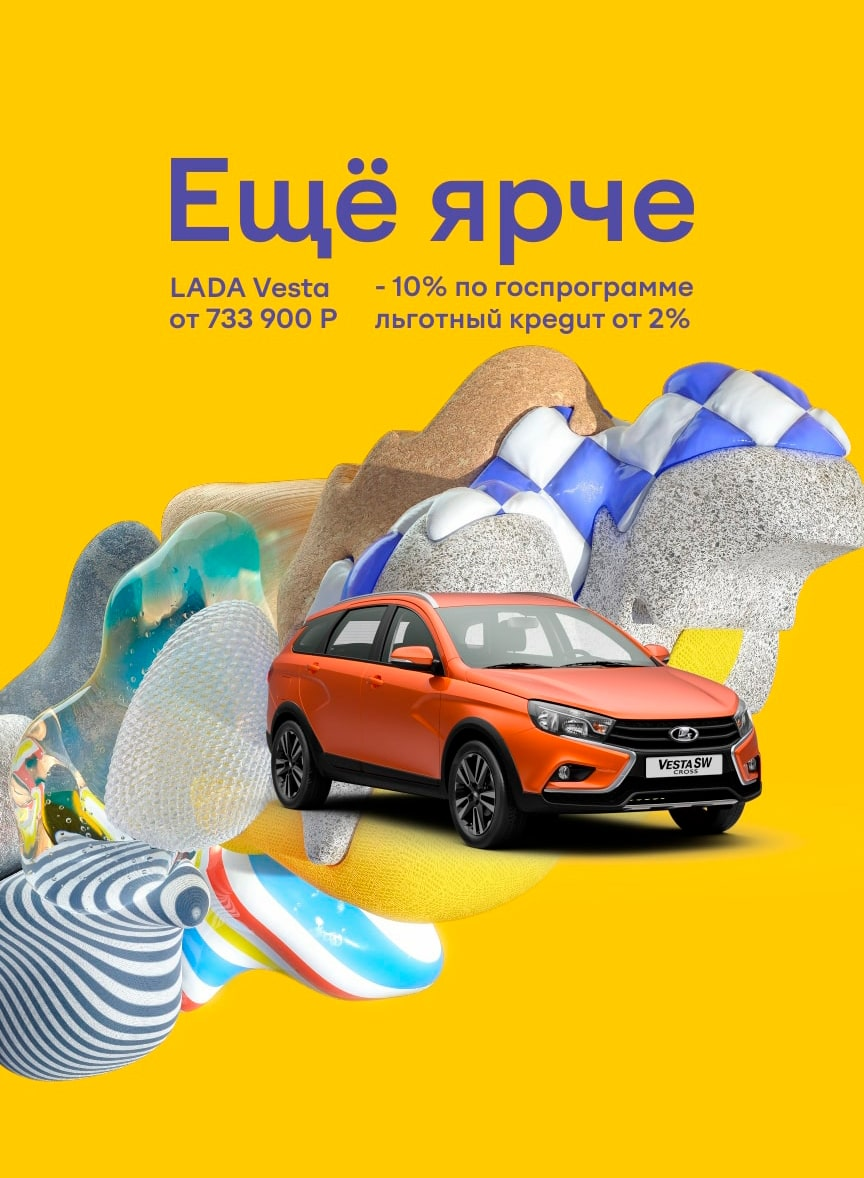
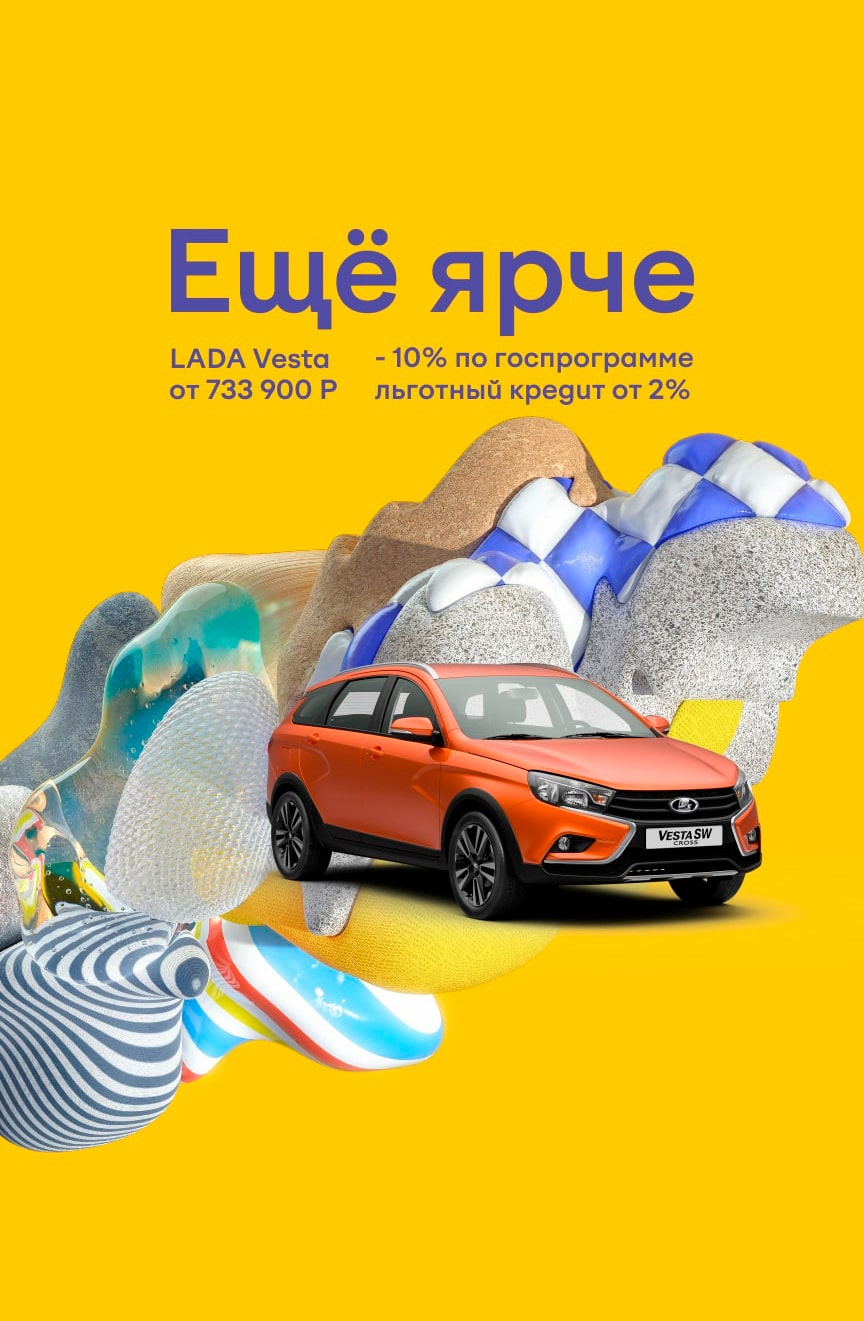
Поправил высоту слайдера для новых iPhone
#main #banner

diff --git a/components/banners/MainBanner.vue b/components/banners/MainBanner.vue
@@ -9,8 +9,8 @@
         <swiper-slide :key="banner.key" v-for="banner in banners">
           <picture>
             <source :srcset="path.mobile + banner.title + '.' + banner.extension + ', ' + path.mobile + banner.title + '.' + banner.extension + ' 2x'" media="(max-height: 667px)">
-            <source :srcset="path.mobileBig + banner.title + '.' + banner.extension + ', ' + path.mobileBig + banner.title + '.' + banner.extension + ' 2x'" media="(min-height: 668px) and (max-width: 580px)">
-            <source :srcset="path.tablet + banner.title + '.' + banner.extension + ', ' + path.tablet + banner.title + '.' + banner.extension + ' 2x'" media="(max-width: 900px)">
+            <source :srcset="path.mobileBig + banner.title + '.' + banner.extension + ', ' + path.mobileBig + banner.title + '.' + banner.extension + ' 2x'" media="(min-height: 737px) and (max-width: 580px)">
+            <source :srcset="path.tablet + banner.title + '.' + banner.extension + ', ' + path.tablet + banner.title + '.' + banner.extension + ' 2x'" media="(max-width: 900px) and (min-height: 738px)">
             <source :srcset="path.desktop + banner.title + '.' + banner.extension + ', ' + path.desktop + banner.title + '.' + banner.extension + ' 2x'" media="(min-width: 901px)">
             <img :src="path.mobile + banner.title + '.' + banner.extension"
                  :srcset="path.mobile + banner.title + '.' + banner.extension + ', ' + path.mobile + banner.title + '.' + banner.extension + ' 2x'"
